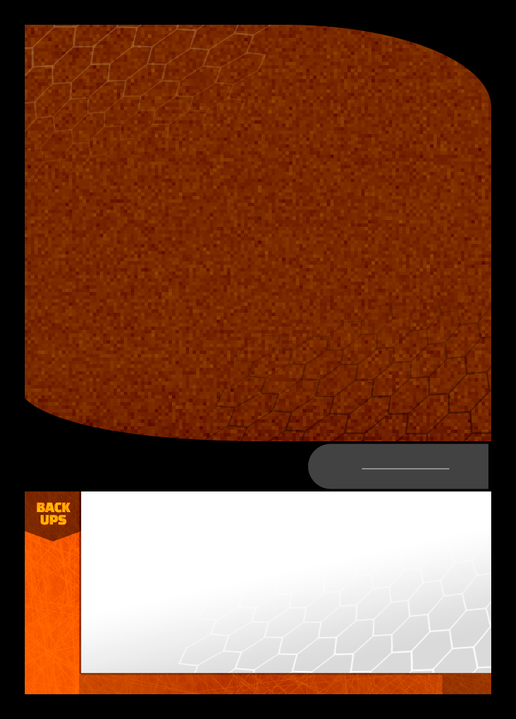
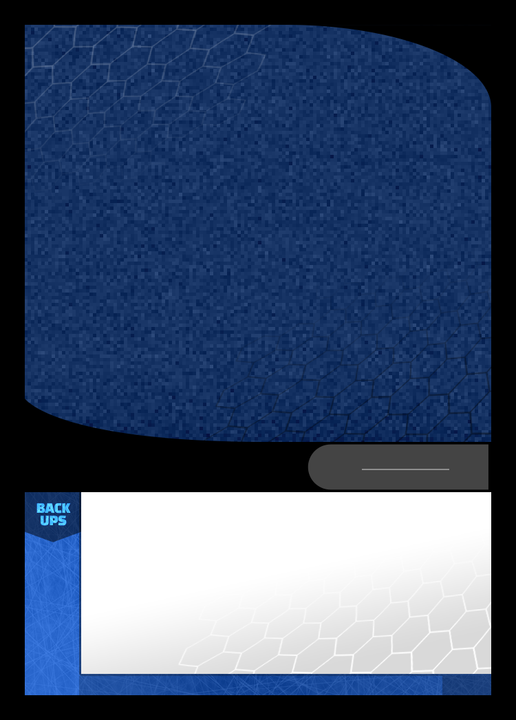
Updated character card design

diff --git a/CHANGELOG.md b/CHANGELOG.md
@@ -1,12 +1,14 @@
 # Card Fighters' Clash Changelog
 
+## 0.8.1
+Minor fixes and improvements.
+Updated character card design.
 ## 0.8.0
 All cards scripted.  
 Updated docs.  
 Markers updated to not display quantity.  
 Lots of gameplay improvements.  
 Updated ring design.
-Minor fixes and improvements.
 ## 0.7.14
 Scripted abilities: Waiting in vain.
 ## 0.7.13
